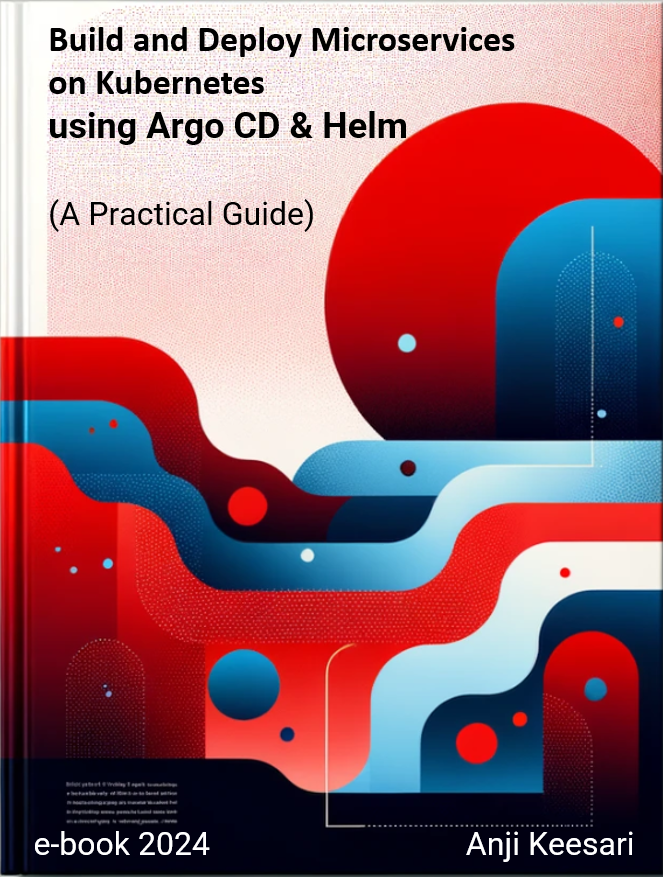
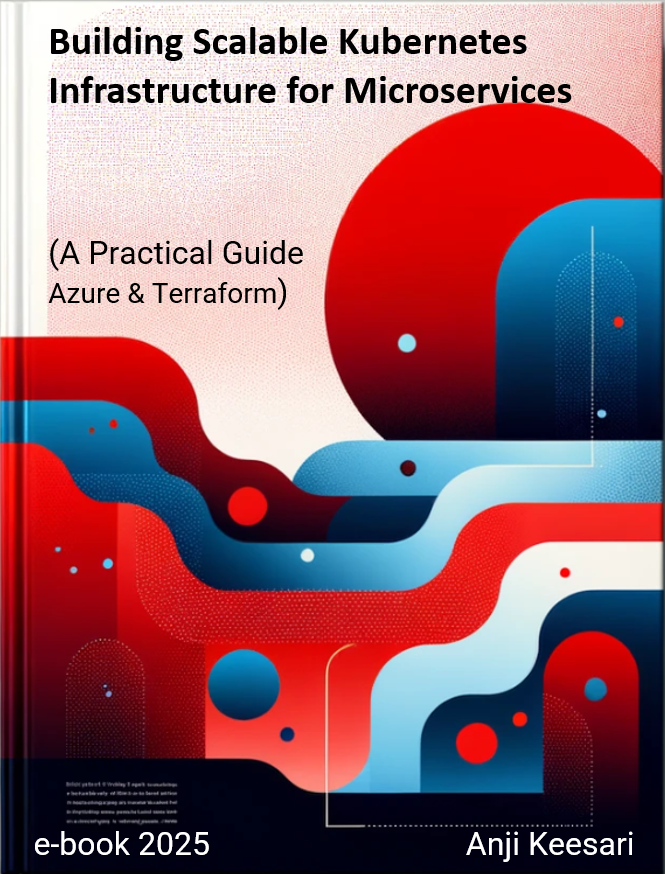
Title Change

diff --git a/docs/overrides/home.html b/docs/overrides/home.html
@@ -266,15 +266,15 @@
         </h2>
         <p>Welcome to my Free e-Book, <b>Building Microservices with Containers (A Practical Guide)</b>. In this book, I'm going to share my practical knowledge about creating microservices applications with docker containers.</p>
         
-        <img src="images/book-cover-1.png" alt="Building Microservices with Containers (A Practical Guide)" />
+        <img src="images/book-cover-1.png" alt="" />
     </div>
     <div class="column">
         <h2>
             Free e-Book - <a href="http://Kubernetes.anjikeesari.com/" style="color: blue;" target="_blank">Read online</a>
         </h2>
-        <p>Welcome to my Free e-Book, <b>Build and Deploy Microservices on Kubernetes using ArgoCD & Helm</b>. In this book, I'm going to share my practical knowledge about creating and managing microservices applications in Kubernetes using the latest tools like ArgoCD and Helm.</p>
+        <p>Welcome to my Free e-Book, <b>Building Scalable Kubernetes Infrastructure for Microservices (A Practical Guide)</b>. In this book, I'm going to share my practical knowledge about creating and managing microservices applications in Kubernetes using the latest tools like ArgoCD and Helm.</p>
         <p>Note :This book is still a work in progress, However, you are still welcome to continue reading what has been written so far.</p>
-        <img src="images/book-cover-2.png" alt="Build & Deploy Microservices on Kubernetes using ArgoCD & Helm"  style="width: 400px; height: 550px;"/>
+        <img src="images/book-cover-2.png" alt=""  style="width: 400px; height: 550px;"/>
         
     </div>
 </div> 

diff --git a/docs/resources/books/kubernetes.md b/docs/resources/books/kubernetes.md
@@ -1,8 +1,8 @@
 
-# Build and Deploy Microservices on Kubernetes using ArgoCD & Helm
+# Building Scalable Kubernetes Infrastructure for Microservices
 
 
-Welcome to my e-Book, `Build and Deploy Microservices on Kubernetes using ArgoCD & Helm`. In this book, I'm going to share my practical knowledge about creating and managing microservices applications in Kubernetes using the latest tools like ArgoCD and Helm.
+Welcome to my e-Book, `Building Scalable Kubernetes Infrastructure for Microservices (A Practical Guide)`. In this book, I'm going to share my practical knowledge about creating scalable kubernetes cloud infrastructure for microservices architecture using azure and terraform.
 
 To dive into the complete contents of this eBook, simply follow the link provided below. This link will take you to the eBook's dedicated website, where you can access and explore each chapter as it becomes available. I'm excited to have you join me on this journey of learning and discovery, and I look forward to your feedback as we continue to enhance and refine this valuable resource.
 
@@ -16,5 +16,5 @@ Thank you for your interest, and happy reading!
 
 
 <a href="http://kubernetes.anjikeesari.com/" target="_blank">
-    <img src="../../../images/book-cover-2.png" alt="Build & Deploy Microservices on Kubernetes using ArgoCD & Helm" />
+    <img src="../../../images/book-cover-2.png" alt="" />
 </a>

diff --git a/docs/about/profile.md b/docs/about/profile.md
@@ -11,7 +11,7 @@
 *   **Publications**: Author of two technical books:
     *   _Building Microservices with Containers: A Practical Guide_
         
-    *   _Build and Deploy Microservices on Kubernetes using ArgoCD & Helm_
+    *   _Building Scalable Kubernetes Infrastructure for Microservices_
         
 *   **Entrepreneurship**: Founder of [https://anjikeesari.com](https://anjikeesari.com), where I share insights and tutorials on a wide range of technologies, including Azure, Kubernetes, PostgreSQL, MongoDB, Terraform, Helm, Azure DevOps, .NET, React, and more.
     

diff --git a/docs/about/about.md b/docs/about/about.md
@@ -14,7 +14,7 @@
 **Publications**: Author of two technical books:
 
 *  _Building Microservices with Containers: A Practical Guide_        
-*   _Build and Deploy Microservices on Kubernetes using ArgoCD & Helm_
+*  _Building Scalable Kubernetes Infrastructure for Microservices_
         
 **Entrepreneurship**: Founder of [https://anjikeesari.com](https://anjikeesari.com), where I share insights and tutorials on a wide range of technologies, including Azure, Kubernetes, PostgreSQL, MongoDB, Terraform, Helm, Azure DevOps, .NET, React, and more.
 
